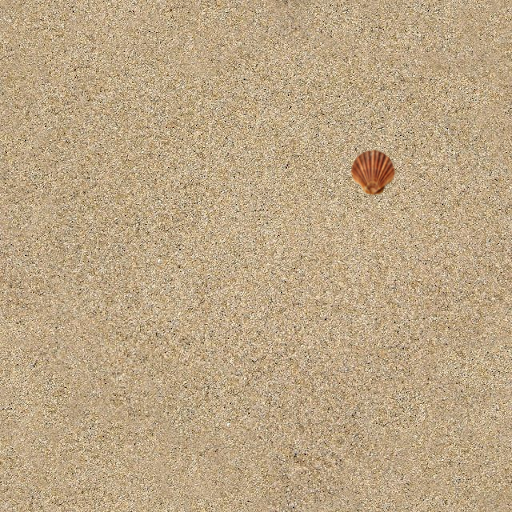
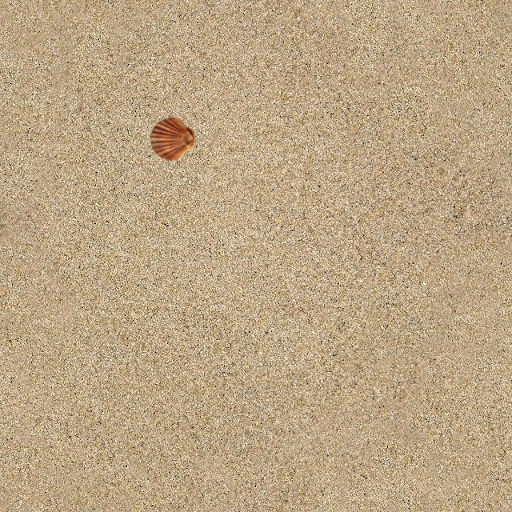
change nest position

diff --git a/project/MyScene.js b/project/MyScene.js
@@ -41,6 +41,7 @@ export class MyScene extends CGFscene {
         this.enableTextures(true);
 
         // Initialize scene objects
+        this.debugCube = new MyUnitCubeQuad(this);
         this.axis = new CGFaxis(this);
         this.sphere = new MySphere(this, 16, 8);
 
@@ -79,7 +80,7 @@ export class MyScene extends CGFscene {
         this.cubeMap = new MyCubeMap(this, ...this.cubeMapTextures[0]);
 
         this.seaFloor = new MySeaFloor(this, 50, 50, 1);
-        this.fishNest = new MyFishNest(this, 11.5, -8.2, 2.25);
+        this.fishNest = new MyFishNest(this, -8, -11.5, 2.25);
 
         this.defaultAppearance = new CGFappearance(this);
 		this.defaultAppearance.setAmbient(0.2, 0.4, 0.8, 1.0);
@@ -218,6 +219,11 @@ export class MyScene extends CGFscene {
         for (let pillar of this.pillars) {
             pillar.display();
         }
+
+        this.pushMatrix();
+        this.translate(0, 0.5, 0);
+        this.debugCube.display();
+        this.popMatrix();
 
         //this.movingObject.display();
 

diff --git a/project/MySeaFloor.js b/project/MySeaFloor.js
@@ -11,7 +11,7 @@ import { MyPlane } from './MyPlane.js';
  * @param maxT - maximum texture coordinate in T
  */
 export class MySeaFloor extends CGFobject {
-	constructor(scene, size, nrDivs, maxHeightY) {
+	constructor(scene, size, nrDivs, offsetScale) {
 		super(scene);
 
 		this.size = size;
@@ -29,8 +29,12 @@ export class MySeaFloor extends CGFobject {
 		this.appearance.setTextureWrap('REPEAT', 'REPEAT');
 
 		this.shader = new CGFshader(this.scene.gl, "shaders/sea_floor.vert", "shaders/sea_floor.frag");
-		this.shader.setUniformsValues({ heightMap: 1, maxHeightY: maxHeightY});
+		this.shader.setUniformsValues({ heightMap: 1, offsetScale: offsetScale});
 	}
+
+    setOffsetScale(offsetScale) {
+        this.shader.setUniformsValues({ heightMap: 1, offsetScale: offsetScale});
+    }
 
     display() {
         this.appearance.apply();
